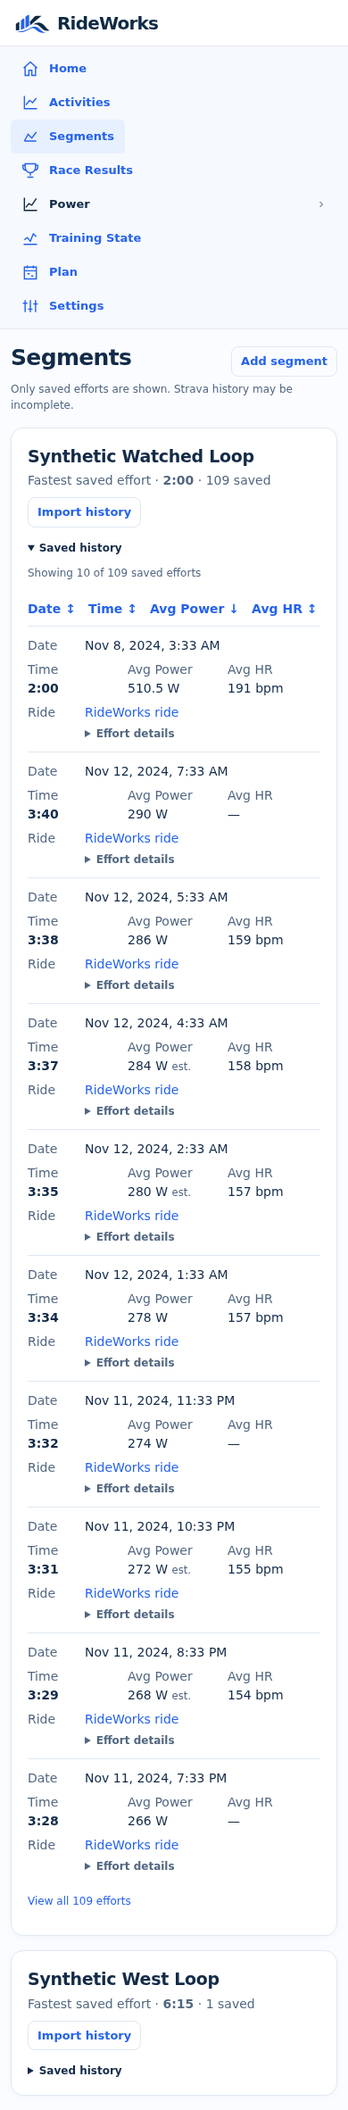
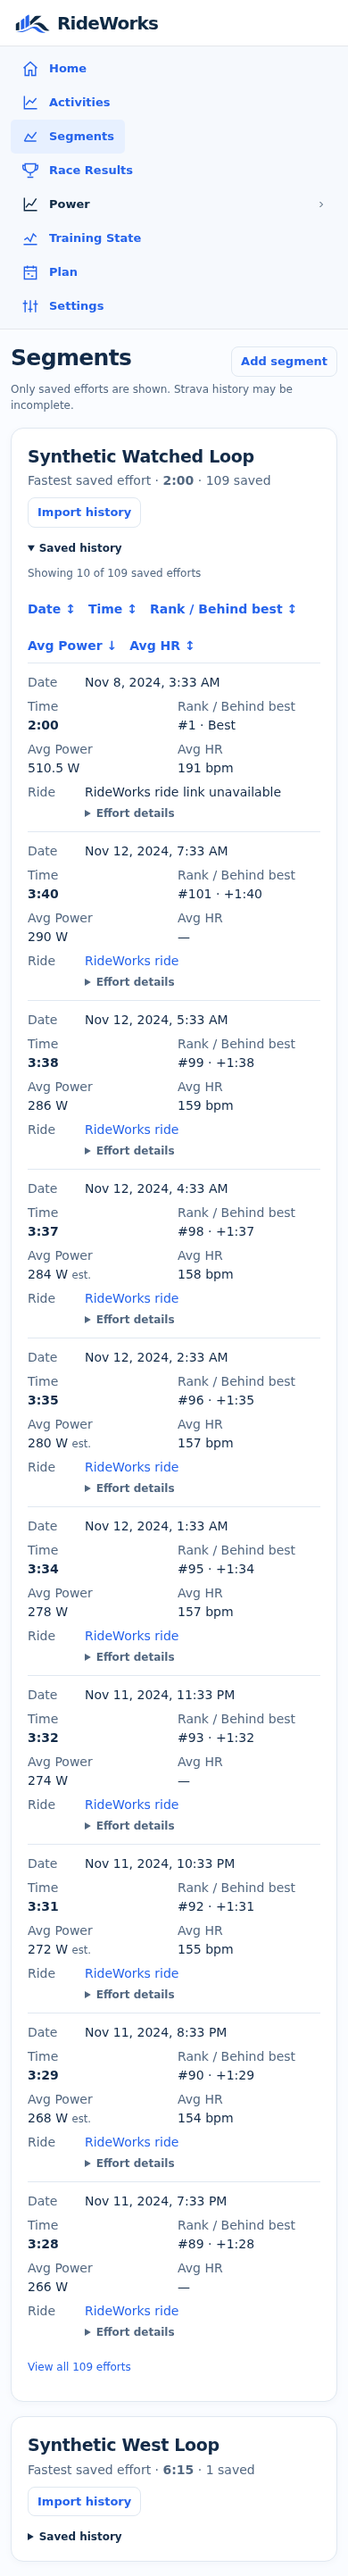
Rank watched segment efforts against saved history

diff --git a/reports/SEG-02/verification/clipboard-browser.js b/reports/SEG-02/verification/clipboard-browser.js
@@ -47,23 +47,34 @@ async page => {
   assert(!(await card.locator('.segment-saved-list').evaluate(el => el.open)), 'history initially closed');
   await openHistory();
   assert(await displayed() === 10 && await direction('Date') === 'descending', 'newest first, ten rows');
-  assert(!(await first(3).innerText()).includes('510.5'), 'oldest high power starts offscreen');
-  assert(await table.getByRole('columnheader').count() === 5, 'five columns');
+  assert(!(await first(4).innerText()).includes('510.5'), 'oldest high power starts offscreen');
+  assert(await table.getByRole('columnheader').count() === 6, 'six columns');
   assert(await table.getByRole('columnheader', {name: 'Ride'}).getByRole('link').count() === 0, 'Ride does not sort');
-  await sort('Avg Power', true);
-  assert(await direction('Avg Power') === 'descending' && (await first(3).innerText()).includes('510.5 W'), 'keyboard sort across all 102 rows');
+  assert(await table.getByText('#1 · Best', {exact: true}).count() === 0, 'tied best efforts start outside the short view');
+  await sort('Rank / Behind best', true);
+  assert(await direction('Rank / Behind best') === 'descending' && await first(3).innerText() === '#102 · +4:15', 'rank sorts numerically descending');
+  await sort('Rank / Behind best', true);
+  assert(await direction('Rank / Behind best') === 'ascending', 'rank sort direction after keyboard toggle');
+  assert(await table.locator('tbody .segment-rank').allTextContents().then(ranks =>
+    ranks.slice(0, 3).join('|') === '#1 · Best|#1 · Best|#3 · +0:02'), 'tied best and exact gap to third');
+  await card.getByRole('link', {name: 'View all 102 efforts'}).click();
+  assert(await displayed() === 102 && await last(3).innerText() === '#102 · +4:15', 'full history keeps rank and gap');
+  await card.getByRole('link', {name: 'Show short history'}).click();
   await screenshot('seg02-history-desktop.png');
+  await sort('Avg Power', true);
+  assert(await direction('Avg Power') === 'descending' && (await first(4).innerText()).includes('510.5 W'), 'keyboard sort across all 102 rows');
+
   await sort('Avg Power');
-  assert(await direction('Avg Power') === 'ascending' && (await first(3).innerText()).includes('92 W'), 'numeric ascending');
+  assert(await direction('Avg Power') === 'ascending' && (await first(4).innerText()).includes('92 W'), 'numeric ascending');
   await sort('Time');
   await sort('Time');
   assert(await direction('Time') === 'ascending' && (await first(2).innerText()) === '2:00', 'numeric durations');
   await table.getByRole('columnheader', {name: 'Avg HR', exact: true}).getByRole('link').click();
-  assert(await direction('Avg HR') === 'descending' && (await first(4).innerText()) === '191 bpm', 'whole-history HR sort');
+  assert(await direction('Avg HR') === 'descending' && (await first(5).innerText()) === '191 bpm', 'whole-history HR sort');
   await card.getByRole('link', {name: 'View all 102 efforts'}).click();
-  assert(await displayed() === 102 && (await last(4).innerText()) === '—', 'full view, missing last on descending');
+  assert(await displayed() === 102 && (await last(5).innerText()) === '—', 'full view, missing last on descending');
   await sort('Avg HR');
-  assert(await direction('Avg HR') === 'ascending' && (await last(4).innerText()) === '—', 'missing last on ascending');
+  assert(await direction('Avg HR') === 'ascending' && (await last(5).innerText()) === '—', 'missing last on ascending');
   await card.getByRole('link', {name: 'Show short history'}).click();
   assert(await displayed() === 10, 'return to short history');
 
@@ -140,9 +151,9 @@ async page => {
   await card.getByRole('link', {name: 'Close import'}).click();
   assert(await displayed() === 10, 'history opens without expanded import');
   assert(await table.locator('tbody .segment-cell-label').first().isVisible(), 'narrow row labels');
-  assert((await first(3).innerText()).includes('—'), 'malformed API power is unavailable');
+  assert((await first(4).innerText()).includes('—'), 'malformed API power is unavailable');
   await table.getByRole('link', {name: 'Avg Power', exact: true}).click();
-  assert((await first(3).innerText()).includes('510.5 W'), 'sorting available at 390 px');
+  assert((await first(4).innerText()).includes('510.5 W'), 'sorting available at 390 px');
   await checkNoOverflow();
   await screenshot('seg02-history-390.png');
 
@@ -162,10 +173,14 @@ async page => {
     await page.getByRole('link', {name: '2 tracked segments', exact: true}).click();
     await page.getByRole('link', {name: 'All watched segments'}).waitFor();
     await page.getByRole('heading', {name: 'Synthetic West Loop'}).waitFor();
+    await sort('Rank / Behind best', true);
+    await sort('Rank / Behind best', true);
+    assert(await first(3).innerText() === '#3 · +0:02', 'filtered ride keeps rank from all saved efforts');
+    assert(await table.getByText('#1 · Best', {exact: true}).count() === 0, 'fastest efforts belong to another ride');
     await checkNoOverflow();
   }
   await source.close();
   return {richClipboard: types, richRows: 2, localLink: 1, plainRows: 3, apiRows: 2,
-    replay: true, fullHistory: 109, shortView: 10, numericSort: true, missingLast: true,
+    replay: true, fullHistory: 109, shortView: 10, numericSort: true, missingLast: true, rankTiesAndRideFilter: true,
     progressAndRecovery: true, viewports: [1440, 390], screenshots: 2};
 }

diff --git a/rideworks/static/style.css b/rideworks/static/style.css
@@ -1106,6 +1106,7 @@ pre { overflow-x: auto; font-size: 13px; background: var(--background); padding:
 .segment-attempts th a { display: inline-block; }
 .segment-attempts td { border-top: 1px solid var(--border); overflow-wrap: anywhere; }
 .segment-attempts td a { display: block; width: fit-content; }
+.segment-rank { white-space: nowrap; font-variant-numeric: tabular-nums; }
 .segment-attempts small, .segment-effort-details { color: var(--muted); }
 .segment-cell-label { display: none; }
 .segment-saved-list { margin-top: 14px; }
@@ -1116,7 +1117,7 @@ pre { overflow-x: auto; font-size: 13px; background: var(--background); padding:
   .segment-attempts thead tr { display: flex; flex-wrap: wrap; gap: 4px 14px; }
   .segment-attempts th { padding-right: 0; }
   .segment-attempts th:last-child { position: absolute; width: 1px; height: 1px; overflow: hidden; clip-path: inset(50%); }
-  .segment-attempts tbody tr { display: grid; grid-template-columns: repeat(3, minmax(0, 1fr)); column-gap: 8px; border-top: 1px solid var(--border); padding-block: 8px; }
+  .segment-attempts tbody tr { display: grid; grid-template-columns: repeat(2, minmax(0, 1fr)); column-gap: 8px; border-top: 1px solid var(--border); padding-block: 8px; }
   .segment-attempts td { border: 0; padding: 3px 0; }
   .segment-attempts td:is(:first-child, :last-child) { grid-column: 1 / -1; display: grid; grid-template-columns: 56px minmax(0, 1fr); gap: 8px; }
   .segment-cell-label { display: block; color: var(--muted); }

diff --git a/rideworks/segments_page.py b/rideworks/segments_page.py
@@ -9,7 +9,8 @@ from .segment_import import PastedRow, candidates
 from .segment_import_page import import_form, options, preview_panel
 from .web import duration, local_time, shell
 
-COLUMNS = (('date', 'Date'), ('seconds', 'Time'), ('avg_power', 'Avg Power'), ('avg_hr', 'Avg HR'))
+COLUMNS = (('date', 'Date'), ('seconds', 'Time'), ('effort_rank', 'Rank / Behind best'),
+           ('avg_power', 'Avg Power'), ('avg_hr', 'Avg HR'))
 SHORT_HISTORY = 10
 POWER_EVIDENCE = {None: 'Power status unknown', 0: 'Estimated power', 1: 'Device-reported power'}
 METRIC_SOURCES = {'api': 'Strava API', 'paste': 'My Results paste'}
@@ -87,7 +88,10 @@ def history_table(store, nonce, efforts, name, sort, direction, links):
                   if effort['activity_id'] else '<span>RideWorks ride link unavailable</span>')
         when = (local_time(effort['start_time'], compact=True) if effort['start_time']
                 else escape(effort['calendar_day']))
+        behind = f'+{duration(effort["behind_best"])}' if effort['behind_best'] else 'Best'
+        rank = f'<span class="segment-rank">#{effort["effort_rank"]} · {behind}</span>'
         cells = (when, f'<strong>{duration(effort["seconds"])}</strong>',
+                 rank,
                  metric_cell(effort['avg_power'], 'W', effort['device_watts']),
                  metric_cell(effort['avg_hr'], 'bpm'),
                  linked + effort_details(store, effort, nonce))
@@ -133,9 +137,15 @@ def segments_page(store, settings, query, zone):
         title = presentation(snapshots[0])['title'] if snapshots else 'Ride unavailable'
         heading = f'<p>{escape(title)} · <a href="/segments">All watched segments</a></p>'
     rows = store.connection.execute(
-        """SELECT w.segment_id, w.name, e.*, l.activity_id
+        """WITH ranked_efforts AS (
+               SELECT *,
+                      RANK() OVER (PARTITION BY segment_id ORDER BY seconds) AS effort_rank,
+                      seconds - MIN(seconds) OVER (PARTITION BY segment_id) AS behind_best
+               FROM strava_segment_history
+           )
+           SELECT w.segment_id, w.name, e.*, l.activity_id
            FROM strava_watched_segments w
-           LEFT JOIN strava_segment_history e USING (segment_id)
+           LEFT JOIN ranked_efforts e USING (segment_id)
            LEFT JOIN strava_saved_effort_ride_links l USING (external_activity_id)"""
         + (' WHERE l.activity_id=?' if ride else '')
         + ' ORDER BY w.name COLLATE NOCASE, w.segment_id, COALESCE(e.start_time,e.calendar_day) DESC, e.effort_id, e.paste_id',
@@ -188,8 +198,9 @@ def segments_page(store, settings, query, zone):
                 label = 'Show short history' if full else f'View all {total} efforts'
                 more = f'<p><a href="{href}">{label}</a></p>'
             expanded = ' open' if active or ride else ''
+            coverage = (' on this ride. Rank uses all saved efforts for this segment.' if ride else '')
             history = (f'<details class="segment-saved-list" id="{anchor}-history"{expanded}><summary>Saved history</summary>'
-                       f'<p>Showing {len(visible)} of {total} saved efforts</p>{table}{more}</details>')
+                       f'<p>Showing {len(visible)} of {total} saved efforts{coverage}</p>{table}{more}</details>')
         sections.append(f'<section class="panel segment-card" id="{anchor}"><div class="segment-heading">'
                         f'<div><h2>{escape(name)}</h2>{best}</div>{action}</div>{imports}{history}</section>')
     if not sections:

diff --git a/tests/test_segment_history_import.py b/tests/test_segment_history_import.py
@@ -11,6 +11,7 @@ from zoneinfo import ZoneInfo
 from rideworks.segment_import import parse_paste
 from rideworks.segments import tracked_counts
 from rideworks.segments_page import sorted_efforts
+from rideworks.strava_api import apply_observations, normalize
 from rideworks import store as store_module
 from test_rideworks_segments import ACTIVITY, EFFORT, ORIGIN, Response, SEGMENT
 import test_rideworks_segments as fixtures
@@ -253,3 +254,28 @@ class SegmentHistoryTests(unittest.TestCase):
         efforts = [api, paste]
         self.assertEqual(sorted_efforts(efforts, 'date', 'desc', ZoneInfo('America/Los_Angeles')), [paste, api])
         self.assertEqual(sorted_efforts(efforts, 'date', 'desc', ZoneInfo('UTC')), [api, paste])
+
+    def test_rank_uses_deduplicated_segment_history_even_when_filtered_to_a_ride(self):
+        self.watch()
+        faster_ride = ACTIVITY + 1
+        first, second = self.api_rows(2)
+        for row in (first, second):
+            row.update(activity={'id': faster_ride}, elapsed_time=120)
+        self.http.responses.append(Response([first, second]))
+        self.preview('api')
+        self.assertIn('Saved 2', self.save())
+
+        day = first['start_date'][:10]
+        self.preview('paste', f'| [{day}](https://www.strava.com/activities/{faster_ride}) | 2:00 |')
+        self.assertIn('1 matched existing results', self.save(r0=f'api:{first["id"]}'))
+        html = self.app.get(f'/segments?segment={SEGMENT}&view=all&sort=effort_rank&direction=asc')[2].decode()
+        self.assertEqual(html.count('#1 · Best'), 2)
+        self.assertIn('#3 · +4:15', html)
+
+        apply_observations(self.store, [normalize(self.listing(ACTIVITY))], 321, self.now)
+        ride = self.store.connection.execute('SELECT activity_id FROM strava_api_activities WHERE external_id=?',
+                                             (str(ACTIVITY),)).fetchone()[0]
+        filtered = self.app.get(f'/segments?ride={ride}')[2].decode()
+        self.assertIn('Fastest saved on this ride · <strong>6:15</strong>', filtered)
+        self.assertIn('#3 · +4:15', filtered)
+        self.assertNotIn('#1 · Best', filtered)

diff --git a/reports/SEG-02/verification/clipboard-dev.py b/reports/SEG-02/verification/clipboard-dev.py
@@ -30,9 +30,9 @@ def main():
                 power = 510.5 if index == 0 else (90 + index * 2 if index % 3 else None)
                 hr = 191 if index == 0 else (110 + index // 2 if index % 4 else None)
                 effort = Effort(str(row['id']), str(SEGMENT), 'Synthetic Watched Loop',
-                                row['start_date'], 120 + index, power, hr,
+                                row['start_date'], 120 if index < 2 else 120 + index, power, hr,
                                 index % 2 == 0 if power is not None else None)
-                save_effort(fixture.store, str(ACTIVITY), effort)
+                save_effort(fixture.store, str(ACTIVITY + 1 if index < 2 else ACTIVITY), effort)
         api_rows = fixture.api_rows(103)[101:103]
         api_rows[0].update(average_watts=251.5, average_heartrate=153.5, device_watts=False)
         api_rows[1].update(average_watts='invalid', average_heartrate=157)

diff --git a/rideworks/web.py b/rideworks/web.py
@@ -29,7 +29,7 @@ ASSETS = {'ftp.js': 'text/javascript', 'power_curve.js': 'text/javascript', 'ela
 def duration(seconds):
     if seconds is None:
         return 'Unavailable'
-    total = int(float(seconds) + 0.5)
+    total = seconds if type(seconds) is int else int(float(seconds) + 0.5)
     hours, rest = divmod(total, 3600)
     minutes, secs = divmod(rest, 60)
     return f'{hours}:{minutes:02}:{secs:02}' if hours else f'{minutes}:{secs:02}'

diff --git a/reports/SEG-02/implementation.md b/reports/SEG-02/implementation.md
@@ -150,3 +150,25 @@ Synthetic running Dev screenshots
 [Phone, 390 px](verification/segments-390.png).
 The browser commands above run the expanded check and write the two
 screenshots to `/tmp`.
+
+## Rank and time behind the fastest saved effort
+
+Each history row shows its rank and exact time behind the fastest saved
+effort for that segment. Tied fastest efforts both show `#1 · Best`, and
+competition ranking gives the next effort rank 3. The calculation uses
+the existing deduplicated history and compares all saved entries before
+filtering, sorting or applying the ten-row view. A ride-filtered history
+retains the same rank and gap and explains the comparison scope.
+
+The focused test covers an API effort linked to a confirmed pasted result
+and checks that it counts once in the ranking. The disposable Chromium
+fixture started with two tied best efforts outside the newest ten. The
+browser check verified numeric rank sorting in both directions, full
+history, keyboard operation, and rank consistency when opening a filtered
+ride from Home and Activities. It also reran the clipboard and API replay
+workflow on the synthetic store. The updated
+[desktop](verification/segments-desktop.png) and
+[390 px](verification/segments-390.png) screenshots show the rank column.
+
+The full suite passed 690 tests with
+`env -u DEBUG .venv/bin/python -m unittest discover -s tests`.

diff --git a/STATUS.md b/STATUS.md
@@ -2,8 +2,8 @@
 
 **Product:** RideWorks.
 **Current task:** SEG-02 — Validate bulk sources for watched-segment history.
-**State:** `in_progress` — Owner likes the revised layout and requested rank and time behind best before final review.
+**State:** `ready_for_review` — HARD Analyst review of saved-effort rank and time behind best.
 **Branch:** `seg-02-history-sources`.
 **PR:** [#70](https://github.com/k14krug/rideworks/pull/70) (draft).
-**Verification:** 689 Python tests, native Chromium clipboard and sortable history at 1440 and 390 px, and a bounded read-only Hilly KOM metric check. See the [implementation report](reports/SEG-02/implementation.md).
-**Next action:** On explicit `/TASK SEG-02`, implement the saved-effort ranking column in the JIT on this draft. Return to HARD Analyst review, then HARD Owner review in Dev.
+**Verification:** 690 Python tests and Chromium rank, ride-filter and import checks at 1440 and 390 px. See the [implementation report](reports/SEG-02/implementation.md).
+**Next action:** HARD Analyst review, then HARD Owner review in running Dev.
